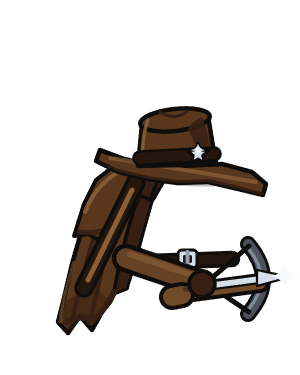
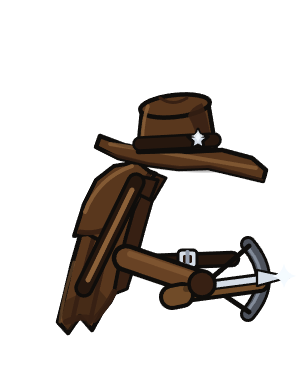
Hats: Hunter-Kostuem-Fixes (ProductId mit Unterstrich ableiten, Wardrobe-Lock ueber ColorChip.Tag, Walk-Bounce fuer Ganzkoerper-Huete, neue Hunter-Frames)

Changed region(s): [[0.3, 0.2347, 0.9, 0.528]]

diff --git a/UCHats.cs b/UCHats.cs
@@ -3,8 +3,8 @@
 // Based on The Other Roles (https://github.com/TheOtherRolesAU/TheOtherHats), GPL-3.0.
 
 /*
- * UCHats - three OWN custom hats ("Virus", "Werbetafel", "Werewolf") added to TOR's hat shop
- * from the outside, WITHOUT a single change to The Other Roles.
+ * UCHats - four OWN custom hats ("Virus", "Werbetafel", "Werewolf", "Monster Hunter") added to TOR's
+ * hat shop from the outside, WITHOUT a single change to The Other Roles.
  *
  * ---------------------------------------------------------------------------------------------
  * WHY THE DETOUR (disk extraction + reflection) IS NECESSARY
@@ -84,6 +84,7 @@
 
 using AmongUs.Data;
 using HarmonyLib;
+using PowerTools;
 using System;
 using System.Collections.Generic;
 using System.IO;
@@ -94,12 +95,21 @@ using UnityEngine;
 
 namespace UnknownsCollection {
     public static class UCHats {
-        // The role-costume hats' ProductIds, exactly as CreateHatBehaviour derives them ("hat_" + Name,
-        // CustomHatManager.cs:97). Shared with WerewolfFx / HunterFx, which put these hats on the
-        // transformed beast resp. the promoted sheriff via setLook - which is also WHY the hat locks
-        // at the bottom of this file exist.
-        public const string WerewolfHatId = "hat_Werewolf";
-        public const string HunterHatId = "hat_Monster Hunter";
+        // The role-costume hats' ProductIds. DERIVED, never written out by hand: CreateHatBehaviour
+        // builds them as `"hat_" + ch.Name.Replace(' ', '_')` (CustomHatManager.cs:97), and that
+        // underscore cost a playtest - "hat_Monster Hunter" matched nothing, so setLook put NO hat on
+        // the promoted sheriff (he lost the one he was wearing) and the wardrobe lock never recognised
+        // its own chip. The Werewolf hat has no space in its name and was therefore unaffected, which
+        // is exactly why the bug only showed up with the second costume.
+        // Shared with WerewolfFx / HunterFx, which put these hats on the transformed beast resp. the
+        // promoted sheriff via setLook - which is also WHY the hat locks at the bottom of this file exist.
+        public static string HatIdOf(string hatName) =>
+            "hat_" + (hatName ?? string.Empty).Replace(' ', '_');
+
+        public const string WerewolfHatName = "Werewolf";
+        public const string HunterHatName = "Monster Hunter";
+        public static readonly string WerewolfHatId = HatIdOf(WerewolfHatName);
+        public static readonly string HunterHatId = HatIdOf(HunterHatName);
 
         // Embedded PNGs: Resources\hats\*.png, pinned to this logical name in the csproj.
         private const string ResourcePrefix = "UnknownsCollection.Resources.hats.";
@@ -135,6 +145,7 @@ namespace UnknownsCollection {
             public string AnimPattern;              // "{0}" = 1-based frame index
             public AnimTarget Target;
             public bool LockFlip;                   // true = never mirror (pure-text hats)
+            public bool FollowBody;                 // true = ride the body's walk animation (see below)
             // --- runtime state ---
             public bool DiskOk, BackOk, ClimbOk;
             public Sprite[] Frames;
@@ -165,7 +176,7 @@ namespace UnknownsCollection {
                 LockFlip = true,
             },
             new HatDef {
-                Name = "Werewolf", Behind = true,   // forced by BackResource anyway
+                Name = WerewolfHatName, Behind = true,   // forced by BackResource anyway
                 MainFile = "UC_Werewolf.png", MainRes = "werewolf_1.png",
                 BackFile = "UC_Werewolf_back.png", BackRes = "werewolf_back.png",
                 ClimbFile = "UC_Werewolf_climb.png", ClimbRes = "werewolf_climb.png",
@@ -175,6 +186,7 @@ namespace UnknownsCollection {
                 // BackImage present -> BOTH layers active; the eye lives on the FrontLayer.
                 Target = AnimTarget.Front,
                 LockFlip = false,                   // the profile mirrors with the walk direction
+                FollowBody = true,
             },
             new HatDef {
                 // The Hunter's costume (Paket W2): unlike the beast this hat does NOT hide the player -
@@ -183,7 +195,7 @@ namespace UnknownsCollection {
                 // under the hunter's garb (the same rule the old flipbook skin followed).
                 // Name deliberately not "Hunter": the official TheOtherHats repository is not readable
                 // offline, and a name collision would silently drop our hat (Register skips duplicates).
-                Name = "Monster Hunter", Behind = true,   // forced by BackResource anyway
+                Name = HunterHatName, Behind = true,   // forced by BackResource anyway
                 MainFile = "UC_Hunter.png", MainRes = "hunter_1.png",
                 BackFile = "UC_Hunter_back.png", BackRes = "hunter_back.png",
                 ClimbFile = "UC_Hunter_climb.png", ClimbRes = "hunter_climb.png",
@@ -192,6 +204,7 @@ namespace UnknownsCollection {
                 AnimFrames = 6, AnimFps = 6f, AnimPattern = "hunter_{0}.png",
                 Target = AnimTarget.Front,
                 LockFlip = false,                   // the profile mirrors with the walk direction
+                FollowBody = true,
             },
         };
 
@@ -244,7 +257,11 @@ namespace UnknownsCollection {
 
                     var ch = new CustomHat {
                         Name = def.Name, Author = Author, Package = Package,
-                        Resource = def.MainFile, Adaptive = false, Bounce = false,
+                        // Bounce feeds HatData.NoBounce (CreateHatBehaviour inverts it). The per-frame
+                        // NoBounce read lives in the vanilla LateUpdate that TOR skips, so the real
+                        // driver is SetBounceNode below - this flag just keeps any vanilla path that
+                        // DOES run (uncached frames) from contradicting it.
+                        Resource = def.MainFile, Adaptive = false, Bounce = def.FollowBody,
                         Behind = back || (def.BackRes == null && def.Behind),
                     };
                     if (back) ch.BackResource = def.BackFile;
@@ -263,7 +280,7 @@ namespace UnknownsCollection {
 
                 // Step 5: the role-costume hat locks (see the section at the bottom of this file).
                 // Only armed when at least one lockable hat actually made it into the shop.
-                if (pending.Any(h => h != null && IsRoleHat("hat_" + h.Name)))
+                if (pending.Any(h => h != null && IsRoleHat(HatIdOf(h.Name))))
                     UCFx.RegisterTick(TickHatLock);
 
                 UnknownsCollectionPlugin.Logger?.LogInfo(
@@ -405,6 +422,47 @@ namespace UnknownsCollection {
                 AccessTools.Method(typeof(UCHats), nameof(LateUpdatePostfix))));
         }
 
+        // ---- walk bounce for the full-body costumes (playtest 2026-07-31, 2nd attempt) --------
+        //
+        // A crewmate's walk cycle lives INSIDE its body sprite (AU swaps frames), and the head bobs a
+        // few pixels doing so. Vanilla keeps the hat glued to the head with the SpriteAnimNodeSync
+        // component on the HatParent: it positions the hat at an animation NODE each frame, NodeId 0
+        // being the bobbing head node and NodeId 1 the static one. HatParent.LateUpdate re-asserts
+        // `NodeId = Hat.NoBounce ? 1 : 0` per frame - and exactly that never runs for our hats,
+        // because TOR's LateUpdatePrefix ends in `return false` for every cached custom hat
+        // (HatParentPatches.cs). TOR itself still drives the component in its climb branch via
+        // GetComponent<SpriteAnimNodeSync>(), which is also the proof that it exists and works on
+        // custom hats.
+        //
+        // First attempt here was a hand-rolled offset from the body sprite's bounds. That fought the
+        // real mechanism and mis-anchored itself as soon as a walk frame stood taller than the frame
+        // it calibrated on (screenshots 2026-07-31: brim on the visor in one walk direction). Gone -
+        // we now simply do for the idle pose what TOR already does for the climb pose: point the sync
+        // node at the head (NodeId 0) and let the game's own animation data move the hat.
+        private static void SetBounceNode(HatParent parentHat) {
+            try {
+                var sync = parentHat.SpriteSyncNode != null
+                    ? parentHat.SpriteSyncNode
+                    : parentHat.GetComponent<SpriteAnimNodeSync>();
+                if (sync != null && sync.NodeId != 0) sync.NodeId = 0;
+
+                // The sync component does NOT move the HatParent: its `Renderer` field points at the
+                // FRONT layer and only that transform is snapped to the head node. A one-layer hat
+                // never notices; on ours the back layer (coat back + quiver) stayed put while the
+                // front bobbed - playtest screenshots 2026-07-31, "der Rucksack ragt beim Laufen
+                // raus". So the back layer simply copies the front layer's local X/Y each frame
+                // (keeping its own Z - that is the front/back sorting). One frame of lag against the
+                // sync is possible depending on component order, invisible at walk-bob amplitudes.
+                var front = parentHat.FrontLayer;
+                var back = parentHat.BackLayer;
+                if (front == null || back == null || !back.enabled) return;
+                var f = front.transform.localPosition;
+                var b = back.transform.localPosition;
+                if (Mathf.Abs(b.x - f.x) > 0.0005f || Mathf.Abs(b.y - f.y) > 0.0005f)
+                    back.transform.localPosition = new Vector3(f.x, f.y, b.z);
+            } catch { }
+        }
+
         // Runs AFTER TOR's LateUpdatePrefix, which returns false for cached custom hats. HarmonyX
         // still executes postfixes when a prefix skips the original, so this is the last writer of
         // the sprite in the frame and cannot be overwritten by TOR's flip handling.
@@ -413,6 +471,8 @@ namespace UnknownsCollection {
                 if (__instance == null) return;
                 var hat = __instance.Hat;
                 if (hat == null || !AnimByName.TryGetValue(hat.name, out var def)) return;
+
+                if (def.FollowBody) SetBounceNode(__instance);
 
                 var renderer = def.Target == AnimTarget.Front ? __instance.FrontLayer : __instance.BackLayer;
                 if (renderer == null || !renderer.enabled) return;
@@ -624,6 +684,26 @@ namespace UnknownsCollection {
             }
         }
 
+        // Which hat a wardrobe chip stands for. TOR REBUILDS the whole tab in its own OnEnable prefix
+        // and stamps the HatData onto ColorChip.Tag there (HatsTabPatches.cs:138) - that is the only
+        // field it fills. The first version of this lock read chip.Inner.Hat instead, which AU never
+        // populates on a TOR-built chip: the loop found nothing, no chip was ever greyed out and the
+        // Werewolf hat was silently wearable too (playtest 2026-07-31). Tag first, Inner.Hat only as
+        // a fallback for a future TOR that stops setting it.
+        private static HatData ChipHat(ColorChip chip) {
+            if (chip == null) return null;
+            try {
+                var tagged = chip.Tag;
+                if (tagged != null) {
+                    var hat = tagged.TryCast<HatData>();
+                    if (hat != null) return hat;
+                }
+            } catch { }
+            try { return chip.Inner != null ? chip.Inner.Hat : null; } catch { return null; }
+        }
+
+        private static bool loggedTabLock;
+
         // Layer 1: grey the chip out. SetUnavailable is the vanilla "locked cosmetic" treatment;
         // disabling the PassiveButton kills the hover/click listeners TOR wired up in its own
         // OnEnable prefix (HatsTabPatches.cs:100-109).
@@ -632,11 +712,24 @@ namespace UnknownsCollection {
             public static void Postfix(HatsTab __instance) {
                 try {
                     if (__instance == null || __instance.ColorChips == null) return;
+                    int chips = 0, identified = 0, locked = 0;
                     foreach (ColorChip chip in __instance.ColorChips) {
-                        var hat = chip != null && chip.Inner != null ? chip.Inner.Hat : null;
-                        if (hat == null || !IsHatLocked(hat.ProductId)) continue;
+                        chips++;
+                        var hat = ChipHat(chip);
+                        if (hat == null) continue;
+                        identified++;
+                        if (!IsHatLocked(hat.ProductId)) continue;
+                        locked++;
                         try { chip.SetUnavailable(); } catch { }
                         try { if (chip.Button != null) chip.Button.enabled = false; } catch { }
+                    }
+                    // Once per session: the silent failure above cost a playtest, so the next one is
+                    // diagnosable straight from the log.
+                    if (!loggedTabLock) {
+                        loggedTabLock = true;
+                        UnknownsCollectionPlugin.Logger?.LogInfo(
+                            $"[Hats] wardrobe: {chips} chip(s), {identified} identified, {locked} locked " +
+                            $"(werewolf={WerewolfHatLocked()}, hunter={HunterHatLocked()}).");
                     }
                 } catch (Exception ex) {
                     UnknownsCollectionPlugin.Logger?.LogWarning($"[Hats] hat lock (tab) failed: {ex.Message}");
